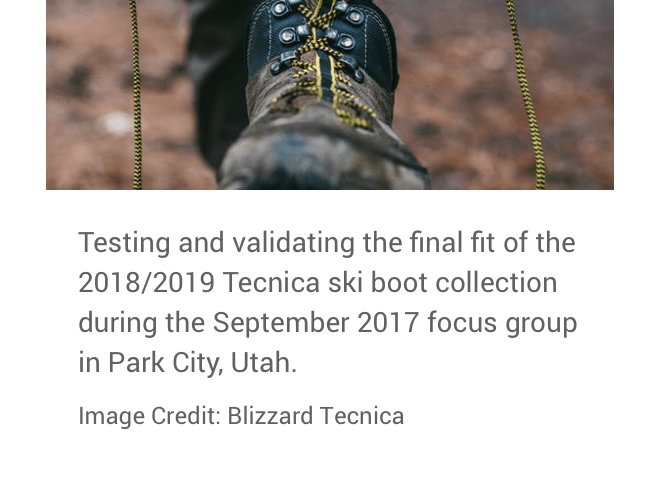
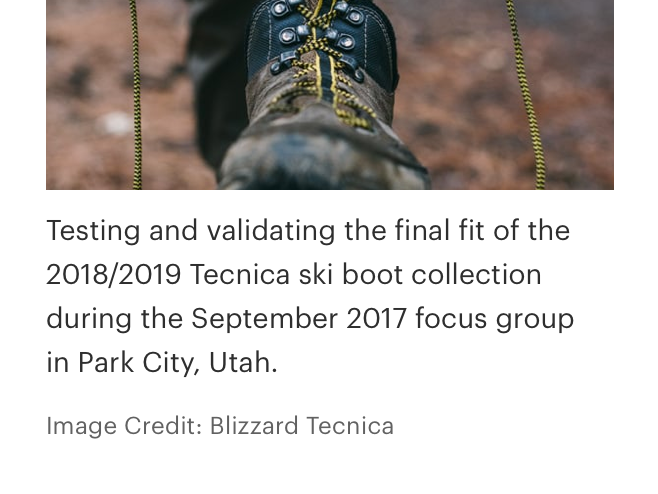
fix caption image

Changed region(s): [[0.0608, 0.4251, 0.8815, 0.7591], [0.0608, 0.8198, 0.6079, 0.8806]]

diff --git a/docs/components/caption/README.md b/docs/components/caption/README.md
@@ -262,8 +262,6 @@ Keep summary content short to avoid excess text-wrapping.
 <br/>
 <br/>
 <do-dont :examples="$page.frontmatter.summaries" />
-// image change: this is the wrong path for the image
-do: https://drive.google.com/file/d/1FwLQ6DQd5OwcyW86AjFQ-jkL3mCX8CVL/view?usp=sharing
 
 Captions must be accompanied by media asset such as an image, video, or chart.
 <br/>
